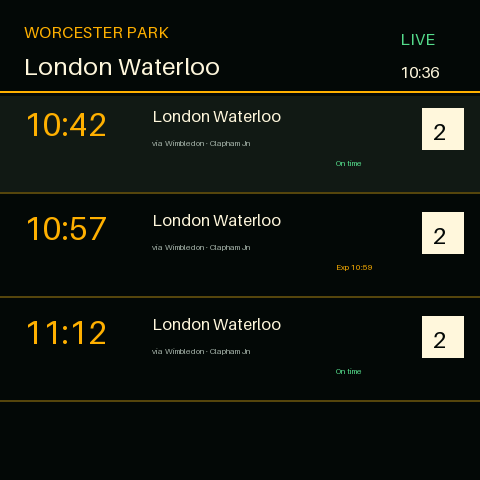
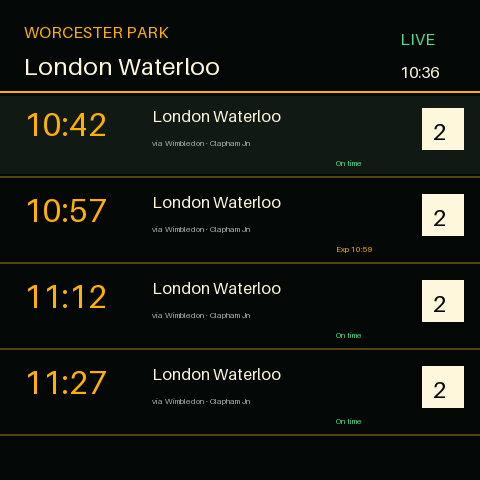
feat: show four upcoming departures

Changed region(s): [[0.0, 0.3438, 1.0, 0.875], [0.3125, 0.6562, 0.5938, 0.6875], [0.6875, 0.875, 0.75, 0.9062]]

diff --git a/lib/board_view.py b/lib/board_view.py
@@ -89,14 +89,14 @@ class BoardView:
             self._text(clock, 400, 62, self.cream, 2)
         self._rule(91)
 
-        services = board.get("services", [])[:3]
+        services = board.get("services", [])[:4]
         if not services:
             self._text("No departures found", 24, 200, self.cream, 3)
         for index, service in enumerate(services):
-            y = 104 + index * 104
+            y = 104 + index * 86
             if index == 0:
                 self.display.set_pen(self.panel)
-                self.display.rectangle(0, y - 8, self.WIDTH, 96)
+                self.display.rectangle(0, y - 8, self.WIDTH, 78)
             status_pen = self._status_pen(service)
             self._text(service.get("scheduled") or "--:--", 24, y, self.amber, 4)
             self._text(service.get("destination", ""), 152, y + 2, self.cream, 2, 245)
@@ -106,7 +106,7 @@ class BoardView:
             if points:
                 names = " · ".join(point["name"] for point in points[:2])
                 self._text("via " + names, 152, y + 34, self.muted, 1, 250)
-            self._rule(y + 88, self.dim_amber)
+            self._rule(y + 72, self.dim_amber)
 
         self.presto.update()
 

diff --git a/tests/test_train_app.py b/tests/test_train_app.py
@@ -6,13 +6,14 @@ from lib.train_app import DEFAULT_STATIONS, departure_index_at, is_tap, station_
 class TrainAppTest(unittest.TestCase):
     def test_departure_rows_map_to_service_indexes(self):
         self.assertEqual(departure_index_at(200, 120, 3), 0)
-        self.assertEqual(departure_index_at(200, 220, 3), 1)
-        self.assertEqual(departure_index_at(200, 330, 3), 2)
+        self.assertEqual(departure_index_at(200, 200, 4), 1)
+        self.assertEqual(departure_index_at(200, 290, 4), 2)
+        self.assertEqual(departure_index_at(200, 380, 4), 3)
 
     def test_taps_outside_available_rows_are_ignored(self):
         self.assertIsNone(departure_index_at(200, 80, 3))
         self.assertIsNone(departure_index_at(200, 330, 2))
-        self.assertIsNone(departure_index_at(200, 430, 3))
+        self.assertIsNone(departure_index_at(200, 450, 4))
 
     def test_drag_is_not_a_tap(self):
         self.assertTrue(is_tap(200, 120, 205, 125))

diff --git a/tools/render_readme_screenshots.py b/tools/render_readme_screenshots.py
@@ -91,6 +91,16 @@ BOARD = {
             "journey_minutes": 28,
             "arrival": "11:40",
         },
+        {
+            "scheduled": "11:27",
+            "destination": "London Waterloo",
+            "status": "On time",
+            "status_kind": "on_time",
+            "platform": "2",
+            "calling_points": [{"name": "Wimbledon"}, {"name": "Clapham Jn"}],
+            "journey_minutes": 28,
+            "arrival": "11:55",
+        },
     ]
 }
 

diff --git a/lib/train_app.py b/lib/train_app.py
@@ -11,8 +11,8 @@ from lib.uk_time import format_clock
 
 
 DEPARTURE_TOP = 96
-DEPARTURE_HEIGHT = 104
-DEPARTURE_COUNT = 3
+DEPARTURE_HEIGHT = 86
+DEPARTURE_COUNT = 4
 STATION_PICKER_TOP = 118
 STATION_PICKER_ROW_HEIGHT = 80
 DEFAULT_STATIONS = (

diff --git a/README.md b/README.md
@@ -10,7 +10,7 @@ required.
 
 - Starts with a touch picker for Worcester Park, Malden Manor, Motspur Park or
   New Malden.
-- Shows the next three direct services to London Waterloo.
+- Shows the next four direct services to London Waterloo.
 - Displays scheduled time, live status, platform and calling points.
 - Opens a Journey focus screen when a departure is tapped.
 - Shows journey duration, arrival time and a live departure countdown.
